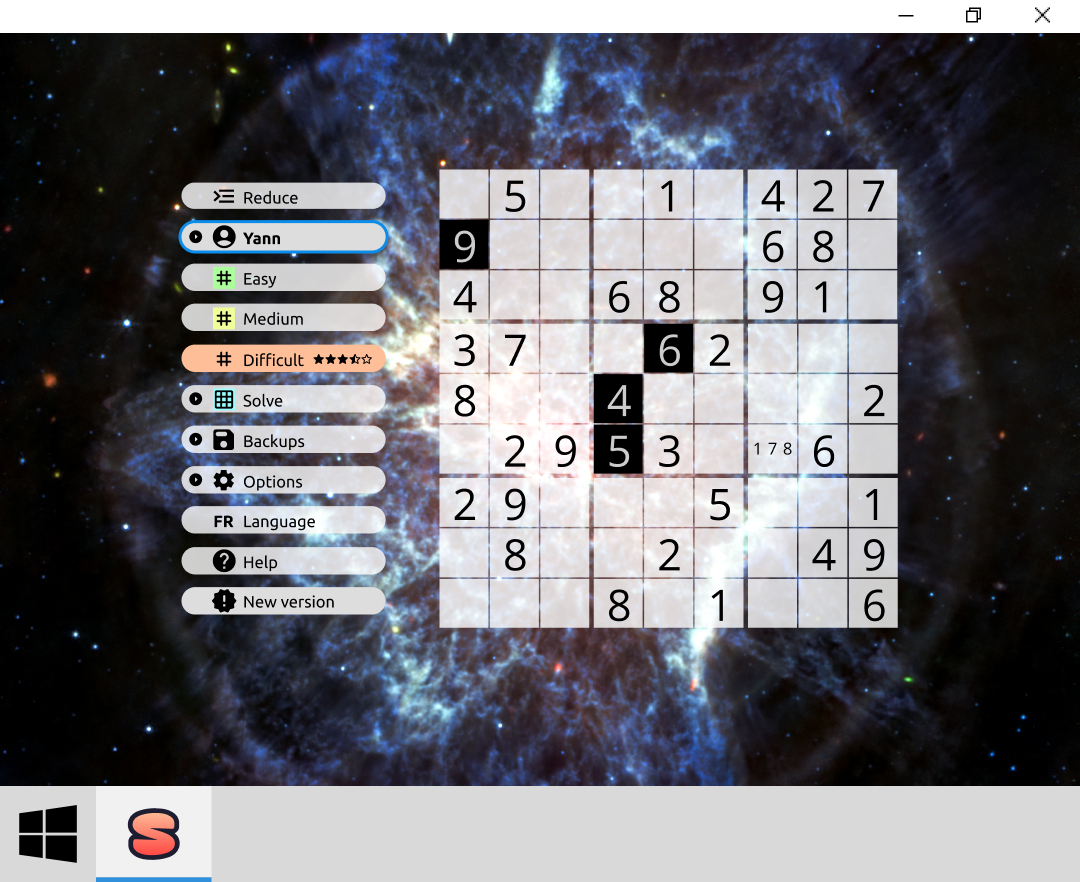
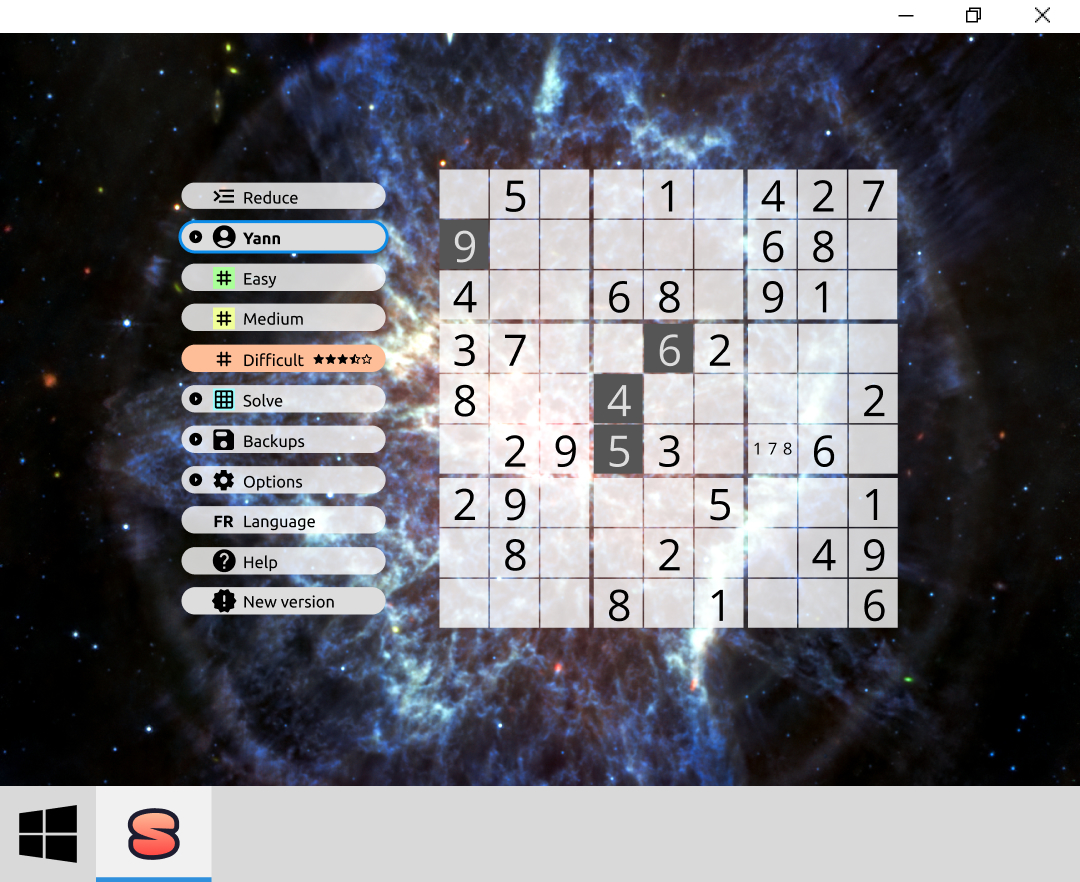
♻ refactor style.css, SudokuFX_in_action.jpg: Update grid cell background color and demonstration assets - Tests pass

Changed region(s): [[0.55, 0.3673, 0.6417, 0.551], [0.3972, 0.2449, 0.4583, 0.3061]]

diff --git a/src/main/resources/fr/softsf/sudokufx/style/style.css b/src/main/resources/fr/softsf/sudokufx/style/style.css
@@ -137,7 +137,7 @@
     -fx-padding: -.1em;
     -fx-text-overrun: clip;
     -fx-wrap-text: false;
-    -fx-background-color: black;
+    -fx-background-color: #555;
     -fx-text-fill: white;
 }
 
